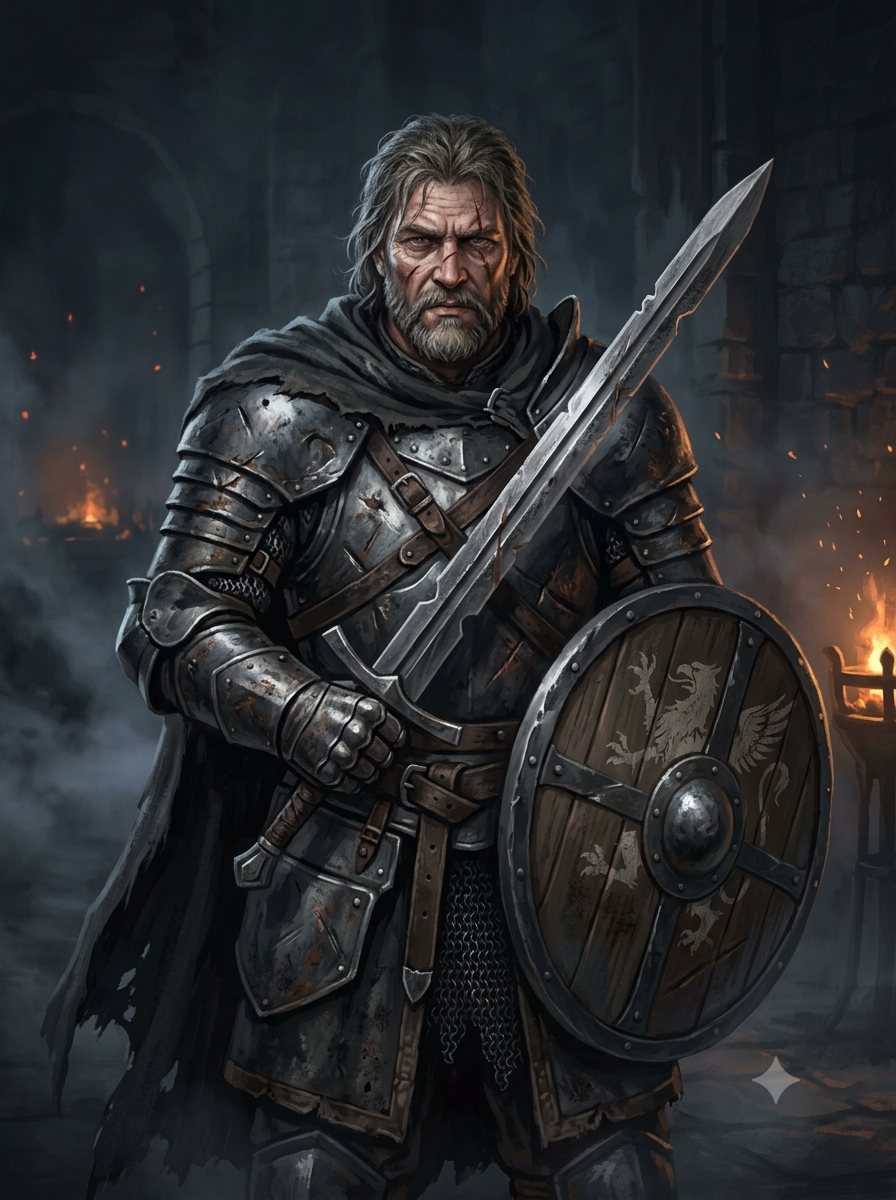
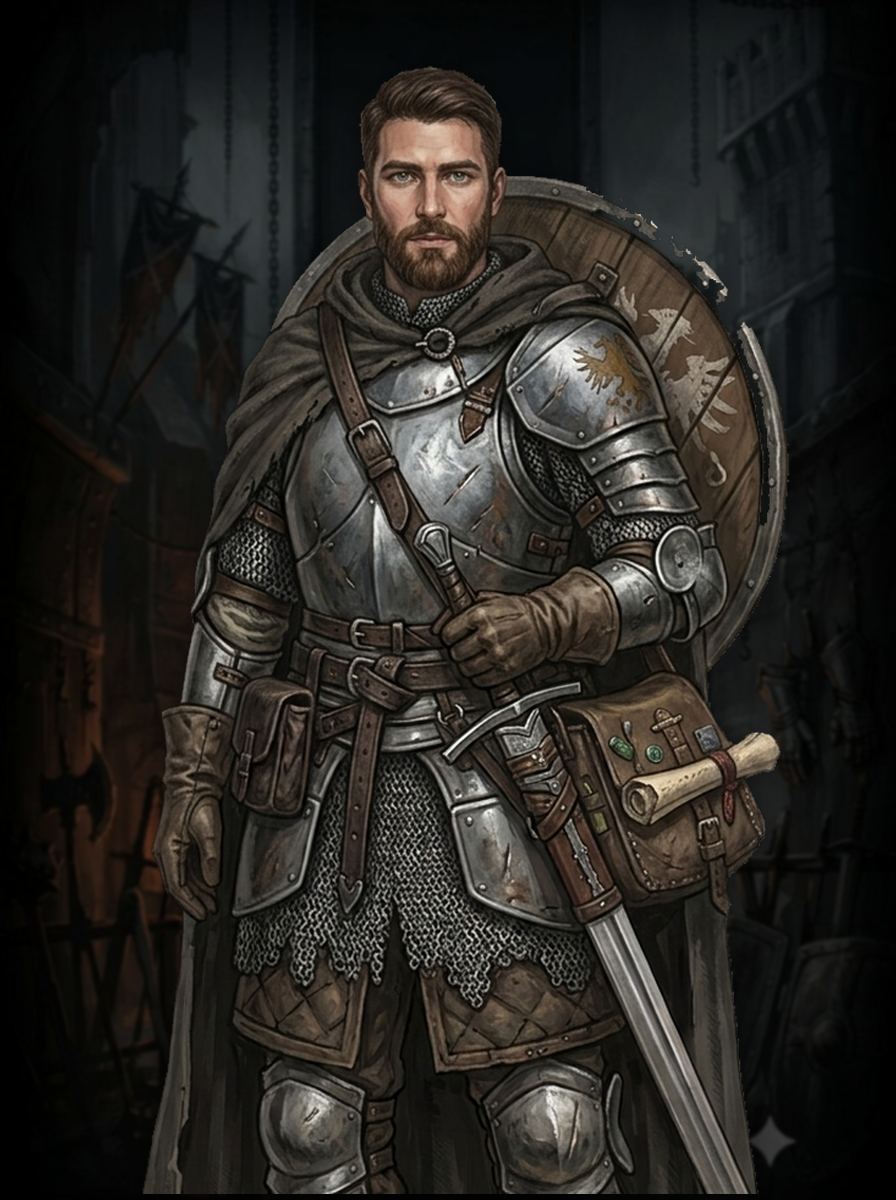
Avatares das 4 classes: recorte, integração e retratos de criação
As artes vieram SEM canal alpha — o xadrez de "transparência" estava pintado
na imagem (e o guerreiro veio com fundo branco), então precisaram ser
recortadas (scripts/cut_avatar.py):
- fundo removido por PREENCHIMENTO a partir das bordas, para que o cinza
  DENTRO da silhueta (a armadura!) seja preservado;
- o xadrez também aparecia dentro de áreas fechadas (o vão da alça da lanterna
  do clérigo, o punho), onde o preenchimento não chega — ali sai por cor, mas
  SÓ quando o fundo é claro: no ladino o xadrez é cinza escuro (100/151), cai
  na mesma faixa do couro e a remoção por cor furava o personagem;
- reenquadradas em 848x1264 com os pés na base, como as artes de aldeão.

Os MESMOS recortes viram os retratos da criação (scripts/compose_class_art.py),
compostos sobre o fundo da árvore de habilidades de cada classe — a forja para
o guerreiro, os telhados para o ladino, o observatório para o mago, a catedral
para o clérigo. Assim o herói escolhido na criação é literalmente o mesmo que
os amigos veem na praça, em vez de duas artes diferentes.

Verificado sobre fundo magenta: sem xadrez, sem franja e sem furos na arte.

Claude-Session: https://claude.ai/code/session_013WvcxhCgG4YoQ53hJyUeUZ

diff --git a/grimhollow/public/prompts/index.html b/grimhollow/public/prompts/index.html
@@ -1415,7 +1415,7 @@ subsistema. A </em><em>comida</em><em> vira consumível </em><em>comprado pronto
   cresce conforme o conteúdo alcança os níveis maiores.</li>
 </ul>
 <hr />
-<h2 id="26--co-op--avatares-dos-outros-jogadores---arte-pendente">26 · CO-OP — avatares dos outros jogadores — 🟡 arte pendente</h2>
+<h2 id="26--co-op--avatares-dos-outros-jogadores---integrado">26 · CO-OP — avatares dos outros jogadores — ✅ integrado</h2>
 <p>Na <strong>Fase 1 do co-op</strong> ("ver os amigos"), cada jogador aparece para os outros como
 um <strong>billboard 2D</strong> com plaquinha de nome, igual aos aldeões. Hoje isso usa <strong>arte
 de NPC emprestada</strong> como provisório (o Gunther faz de guerreiro, etc.).</p>
@@ -1439,16 +1439,16 @@ feita aqui.</p>
 classes é <strong>silhueta + claro/escuro</strong>, então as versões abaixo forçam o contraste:
 o guerreiro fica <strong>LARGO e de metal CLARO</strong>, o ladino <strong>ESBELTO, ESCURO e de capuz</strong>.</p>
 </blockquote>
-<h3 id="-261--avatar_guerreiro-refazer--mais-armadura-metal-claro">🟡 26.1 — <code>avatar_guerreiro</code> (refazer — mais armadura, metal claro)</h3>
+<h3 id="-261--avatar_guerreiro-refazer--mais-armadura-metal-claro">✅ 26.1 — <code>avatar_guerreiro</code> (refazer — mais armadura, metal claro)</h3>
 <pre><code>A full-body HUMAN WARRIOR standing squarely and FACING THE VIEWER, clad in HEAVY FULL PLATE ARMOR — large pauldrons, breastplate, gauntlets and greaves in POLISHED LIGHT STEEL that catches the light, bright silver-grey metal. A big broad-bladed sword held point-down in front of him and a LARGE metal shield on the other arm. BULKY, WIDE, imposing silhouette; bare scarred head, short beard. Mostly BRIGHT METAL — deliberately NOT a dark or cloth-heavy figure, NO hood, NO long cloak covering the armor. Feet flat at the very bottom edge. Grim dark fantasy, hand-painted stylized-realism, dramatic even lighting, no cast shadow, FULLY TRANSPARENT background (alpha channel), crisp clean cutout edges, no ground, no text, no watermark. Tall portrait ~848x1264.
 </code></pre>
-<h3 id="-262--avatar_ladino-refazer--esbelto-escuro-encapuzado">🟡 26.2 — <code>avatar_ladino</code> (refazer — esbelto, escuro, encapuzado)</h3>
+<h3 id="-262--avatar_ladino-refazer--esbelto-escuro-encapuzado">✅ 26.2 — <code>avatar_ladino</code> (refazer — esbelto, escuro, encapuzado)</h3>
 <pre><code>A full-body HUMAN ROGUE standing in a low, poised crouch and FACING THE VIEWER, wearing LIGHT DARK LEATHER only — soft hood PULLED UP shadowing the eyes, fitted jerkin, wrapped forearms, belts and pouches, a short cloak. Twin curved daggers held reversed in both hands. LEAN, NARROW, agile silhouette — deliberately SLIM and SMALL next to an armored knight. NO plate armor, NO metal pauldrons, NO shield, NO large sword. Dark charcoal and muted brown tones. Feet at the very bottom edge. Grim dark fantasy, hand-painted stylized-realism, dramatic even lighting, no cast shadow, FULLY TRANSPARENT background (alpha channel), crisp clean cutout edges, no ground, no text, no watermark. Tall portrait ~848x1264.
 </code></pre>
-<h3 id="-263--avatar_mago">🟡 26.3 — <code>avatar_mago</code></h3>
+<h3 id="-263--avatar_mago">✅ 26.3 — <code>avatar_mago</code></h3>
 <pre><code>A full-body HUMAN MAGE adventurer standing calmly and FACING THE VIEWER, deep blue and grey robes with worn hems, a gnarled wooden staff topped with a dim crystal, satchel of scrolls at the side, feet at the very bottom edge. Grim dark fantasy, hand-painted stylized-realism, dramatic even lighting, no cast shadow, FULLY TRANSPARENT background (alpha channel), crisp clean cutout edges, no ground, no text, no watermark. Tall portrait ~848x1264.
 </code></pre>
-<h3 id="-264--avatar_clerigo">🟡 26.4 — <code>avatar_clerigo</code></h3>
+<h3 id="-264--avatar_clerigo">✅ 26.4 — <code>avatar_clerigo</code></h3>
 <pre><code>A full-body HUMAN CLERIC adventurer standing solemnly and FACING THE VIEWER, pale robes over light mail, a heavy mace in one hand and a lantern or holy symbol in the other, hood back, devout weary expression, feet at the very bottom edge. Grim dark fantasy, hand-painted stylized-realism, dramatic even lighting, no cast shadow, FULLY TRANSPARENT background (alpha channel), crisp clean cutout edges, no ground, no text, no watermark. Tall portrait ~848x1264.
 </code></pre>
 <div class="foot">Nethergloam — referência de arte gerada a partir de PROMPTS.md · atualiza sozinho a cada deploy do jogo</div>

diff --git a/grimhollow/scripts/cut_avatar.py b/grimhollow/scripts/cut_avatar.py
@@ -1,0 +1,124 @@
+"""Recorta o fundo das artes de classe e reenquadra p/ o padrão do jogo.
+
+O fundo (xadrez cinza ou branco) foi PINTADO na imagem — não há canal alpha.
+Como o personagem tem partes cinzas (armadura!), não dá p/ mascarar só por cor:
+o corte é por PREENCHIMENTO a partir das bordas, então só o fundo CONECTADO à
+borda sai e o cinza de dentro da silhueta é preservado.
+"""
+import sys
+import numpy as np
+from PIL import Image, ImageFilter
+from scipy import ndimage
+
+W, H = 848, 1264          # moldura final (mesma das artes de aldeão)
+FEET = 0.985              # pés a ~98,5% da altura
+
+def _cores_do_xadrez(a):
+    """As 2 cinzas chapadas mais comuns na BORDA — as cores do xadrez/fundo."""
+    from collections import Counter
+    h, w = a.shape[:2]
+    c = Counter()
+    for y in list(range(0, 6)) + list(range(h - 6, h)):
+        for x in range(0, w, 3):
+            p = a[y, x]
+            if int(p.max()) - int(p.min()) <= 4:
+                c[int(p.mean())] += 1
+    for x in list(range(0, 6)) + list(range(w - 6, w)):
+        for y in range(0, h, 3):
+            p = a[y, x]
+            if int(p.max()) - int(p.min()) <= 4:
+                c[int(p.mean())] += 1
+    # as duas cores do xadrez são BEM diferentes (ex.: 255 e 207). Pegar só os "2
+    # mais comuns" devolvia 255 e 254 — o mesmo branco com anti-aliasing — e o
+    # cinza nunca entrava. Então exige tons separados por pelo menos 15.
+    escolhidas = []
+    for v, _ in c.most_common():
+        if all(abs(v - e) > 15 for e in escolhidas):
+            escolhidas.append(v)
+        if len(escolhidas) == 2:
+            break
+    return escolhidas
+
+
+def recortar(src, dst):
+    im = Image.open(src).convert("RGB")
+    a = np.asarray(im).astype(np.int16)
+    # 1) candidato a fundo: cinza NEUTRO (r≈g≈b) — o fundo é sempre neutro
+    spread = a.max(axis=2) - a.min(axis=2)
+    lum = a.mean(axis=2)
+    neutro = (spread <= 16) & (lum >= 85)      # xadrez do ladino começa em ~100
+    # 2) só o que está CONECTADO à borda é fundo de verdade
+    lbl, n = ndimage.label(neutro)
+    bordas = set(lbl[0, :]) | set(lbl[-1, :]) | set(lbl[:, 0]) | set(lbl[:, -1])
+    bordas.discard(0)
+    fundo = np.isin(lbl, list(bordas))
+    # 2b) o xadrez também foi pintado DENTRO de áreas fechadas (o vão da alça da
+    # lanterna, o punho fechado) — ali o preenchimento pela borda não chega. Estes
+    # pixels são CHAPADOS e exatamente na cor do xadrez, então dá p/ tirá-los pela
+    # cor; a arte tem textura, então não é confundida. Só remove manchas grandes.
+    cores = _cores_do_xadrez(a)
+    # Só remove por COR quando o fundo é CLARO (>=180). Aí ele contrasta forte com a
+    # arte sombria e o teste é seguro. Quando o xadrez é cinza ESCURO (o do ladino é
+    # 100/151) ele cai na mesma faixa do couro escuro e a remoção começa a furar o
+    # personagem — nesse caso fica só o preenchimento pela borda, que nunca erra.
+    if cores and min(cores) < 180:
+        print(f"    (fundo escuro {cores}: remoção por cor desativada, só borda)")
+        cores = []
+    if cores:
+        # o xadrez nem sempre é perfeitamente neutro (a IA às vezes o tinge de leve:
+        # spread até ~18). A ARTE em volta é bem mais colorida (a túnica creme tem
+        # spread 36-67), então 22 separa os dois com folga.
+        chapado = (spread <= 22)
+        igual = np.zeros_like(chapado)
+        for c in cores:
+            igual |= chapado & (np.abs(lum - c) <= 10)
+        # 8-vizinhos: os quadrados do xadrez só se encostam na DIAGONAL, então com
+        # 4-vizinhos cada um vira um componente solto e os menores escapavam.
+        l2, _ = ndimage.label(igual, structure=np.ones((3, 3), int))
+        if l2.max():
+            areas = np.bincount(l2.ravel())
+            grandes = np.where(areas >= 24)[0]
+            grandes = grandes[grandes != 0]
+            extra = np.isin(l2, grandes) & ~fundo   # o que ESTA passada tiraria a mais
+            # TRAVA: quando o fundo é cinza ESCURO (o do ladino é 100/151) ele se
+            # confunde com roupa escura e esta passada começa a furar o personagem.
+            # Se ela morder mais que 4% do corpo, é sinal de que está comendo arte —
+            # então descarta e fica só com o preenchimento pela borda, que é seguro.
+            corpo_area = int((~fundo).sum())
+            if corpo_area and extra.sum() / corpo_area <= 0.04:
+                fundo |= extra
+            else:
+                print(f"    (passada interna descartada: morderia "
+                      f"{extra.sum() / max(1, corpo_area) * 100:.1f}% do personagem)")
+    # 2c) o que sobrou de xadrez fica ILHADO no meio do fundo já removido. Como o
+    # personagem é UM bloco só, basta manter o maior componente conectado: todo
+    # detrito solto (restos do padrão) some sem precisar acertar pixel a pixel.
+    corpo = ~fundo
+    l3, k = ndimage.label(corpo, structure=np.ones((3, 3), int))
+    if k > 1:
+        areas = np.bincount(l3.ravel())
+        areas[0] = 0
+        fundo = l3 != int(areas.argmax())
+    alpha = np.where(fundo, 0, 255).astype(np.uint8)
+    # 3) come 1px da franja (resto de anti-aliasing claro na silhueta)
+    alpha = ndimage.grey_erosion(alpha, size=(2, 2))
+    out = Image.fromarray(np.dstack([np.asarray(im), alpha]), "RGBA")
+    # 4) recorta no personagem e reenquadra: centralizado, pés na base
+    bbox = out.getchannel("A").getbbox()
+    if not bbox:
+        raise SystemExit(f"{src}: nada sobrou no recorte")
+    fig = out.crop(bbox)
+    esc = min((W * 0.92) / fig.width, (H * FEET) / fig.height)
+    fig = fig.resize((max(1, int(fig.width * esc)), max(1, int(fig.height * esc))), Image.LANCZOS)
+    canvas = Image.new("RGBA", (W, H), (0, 0, 0, 0))
+    canvas.paste(fig, ((W - fig.width) // 2, int(H * FEET) - fig.height), fig)
+    # suaviza a borda do alpha (sem halo, pro alphaTest do billboard)
+    ca = canvas.getchannel("A").filter(ImageFilter.GaussianBlur(0.6))
+    canvas.putalpha(ca)
+    canvas.save(dst)
+    op = np.asarray(ca) > 10
+    print(f"  {dst.split('/')[-1]}: recorte {bbox[2]-bbox[0]}x{bbox[3]-bbox[1]} -> {W}x{H}, "
+          f"{op.mean()*100:.1f}% opaco")
+
+if __name__ == "__main__":
+    recortar(sys.argv[1], sys.argv[2])

diff --git a/grimhollow/scripts/compose_class_art.py b/grimhollow/scripts/compose_class_art.py
@@ -1,0 +1,42 @@
+"""Monta o retrato da tela de criação a partir do MESMO recorte usado no jogo.
+
+Personagem recortado + fundo da árvore de habilidades da classe = o herói que
+você escolhe na criação é literalmente o mesmo que os amigos veem na praça.
+Enquadramento em plano 3/4 (cabeça até ~a coxa), como a arte anterior.
+"""
+import sys
+from PIL import Image, ImageEnhance, ImageFilter
+
+W, H = 896, 1200      # tamanho dos retratos de classe
+CORTE = 0.74          # quanto do corpo entra (1 = corpo todo, 0.74 ≈ até a coxa)
+
+def compor(avatar, fundo, dst):
+    fig = Image.open(avatar).convert("RGBA")
+    fig = fig.crop(fig.getchannel("A").getbbox())          # só o personagem
+    fig = fig.crop((0, 0, fig.width, int(fig.height * CORTE)))  # plano 3/4
+
+    bg = Image.open(fundo).convert("RGB")
+    # escala o fundo p/ COBRIR o quadro e recorta o centro
+    e = max(W / bg.width, H / bg.height)
+    bg = bg.resize((int(bg.width * e) + 1, int(bg.height * e) + 1), Image.LANCZOS)
+    bg = bg.crop(((bg.width - W) // 2, (bg.height - H) // 2,
+                  (bg.width - W) // 2 + W, (bg.height - H) // 2 + H))
+    # escurece e desfoca de leve → o personagem salta à frente
+    bg = ImageEnhance.Brightness(bg).enhance(0.72).filter(ImageFilter.GaussianBlur(1.6))
+
+    # personagem grande, com uma folga acima da cabeça
+    esc = min((W * 0.86) / fig.width, (H * 0.94) / fig.height)
+    fig = fig.resize((int(fig.width * esc), int(fig.height * esc)), Image.LANCZOS)
+    x = (W - fig.width) // 2
+    y = int(H * 0.055)
+    out = bg.convert("RGBA")
+    # sombra de contato atrás do personagem, p/ ele não parecer colado
+    sombra = Image.new("RGBA", (W, H), (0, 0, 0, 0))
+    sombra.paste(Image.new("RGBA", fig.size, (0, 0, 0, 120)), (x, y + 8), fig)
+    out = Image.alpha_composite(out, sombra.filter(ImageFilter.GaussianBlur(14)))
+    out.paste(fig, (x, y), fig)
+    out.convert("RGB").save(dst)
+    print(f"  {dst.split('/')[-1]} pronto")
+
+if __name__ == "__main__":
+    compor(sys.argv[1], sys.argv[2], sys.argv[3])

diff --git a/grimhollow/PROMPTS.md b/grimhollow/PROMPTS.md
@@ -1621,7 +1621,7 @@ subsistema. A **comida** vira consumível **comprado pronto** no mercador.)*
 
 ---
 
-## 26 · CO-OP — avatares dos outros jogadores — 🟡 arte pendente
+## 26 · CO-OP — avatares dos outros jogadores — ✅ integrado
 
 Na **Fase 1 do co-op** ("ver os amigos"), cada jogador aparece para os outros como
 um **billboard 2D** com plaquinha de nome, igual aos aldeões. Hoje isso usa **arte
@@ -1649,22 +1649,22 @@ recorte limpo, sem sombra projetada, sem chão, sem texto.
 > classes é **silhueta + claro/escuro**, então as versões abaixo forçam o contraste:
 > o guerreiro fica **LARGO e de metal CLARO**, o ladino **ESBELTO, ESCURO e de capuz**.
 
-### 🟡 26.1 — `avatar_guerreiro` (refazer — mais armadura, metal claro)
+### ✅ 26.1 — `avatar_guerreiro` (refazer — mais armadura, metal claro)
 ```
 A full-body HUMAN WARRIOR standing squarely and FACING THE VIEWER, clad in HEAVY FULL PLATE ARMOR — large pauldrons, breastplate, gauntlets and greaves in POLISHED LIGHT STEEL that catches the light, bright silver-grey metal. A big broad-bladed sword held point-down in front of him and a LARGE metal shield on the other arm. BULKY, WIDE, imposing silhouette; bare scarred head, short beard. Mostly BRIGHT METAL — deliberately NOT a dark or cloth-heavy figure, NO hood, NO long cloak covering the armor. Feet flat at the very bottom edge. Grim dark fantasy, hand-painted stylized-realism, dramatic even lighting, no cast shadow, FULLY TRANSPARENT background (alpha channel), crisp clean cutout edges, no ground, no text, no watermark. Tall portrait ~848x1264.
 ```
 
-### 🟡 26.2 — `avatar_ladino` (refazer — esbelto, escuro, encapuzado)
+### ✅ 26.2 — `avatar_ladino` (refazer — esbelto, escuro, encapuzado)
 ```
 A full-body HUMAN ROGUE standing in a low, poised crouch and FACING THE VIEWER, wearing LIGHT DARK LEATHER only — soft hood PULLED UP shadowing the eyes, fitted jerkin, wrapped forearms, belts and pouches, a short cloak. Twin curved daggers held reversed in both hands. LEAN, NARROW, agile silhouette — deliberately SLIM and SMALL next to an armored knight. NO plate armor, NO metal pauldrons, NO shield, NO large sword. Dark charcoal and muted brown tones. Feet at the very bottom edge. Grim dark fantasy, hand-painted stylized-realism, dramatic even lighting, no cast shadow, FULLY TRANSPARENT background (alpha channel), crisp clean cutout edges, no ground, no text, no watermark. Tall portrait ~848x1264.
 ```
 
-### 🟡 26.3 — `avatar_mago`
+### ✅ 26.3 — `avatar_mago`
 ```
 A full-body HUMAN MAGE adventurer standing calmly and FACING THE VIEWER, deep blue and grey robes with worn hems, a gnarled wooden staff topped with a dim crystal, satchel of scrolls at the side, feet at the very bottom edge. Grim dark fantasy, hand-painted stylized-realism, dramatic even lighting, no cast shadow, FULLY TRANSPARENT background (alpha channel), crisp clean cutout edges, no ground, no text, no watermark. Tall portrait ~848x1264.
 ```
 
-### 🟡 26.4 — `avatar_clerigo`
+### ✅ 26.4 — `avatar_clerigo`
 ```
 A full-body HUMAN CLERIC adventurer standing solemnly and FACING THE VIEWER, pale robes over light mail, a heavy mace in one hand and a lantern or holy symbol in the other, hood back, devout weary expression, feet at the very bottom edge. Grim dark fantasy, hand-painted stylized-realism, dramatic even lighting, no cast shadow, FULLY TRANSPARENT background (alpha channel), crisp clean cutout edges, no ground, no text, no watermark. Tall portrait ~848x1264.
 ```
